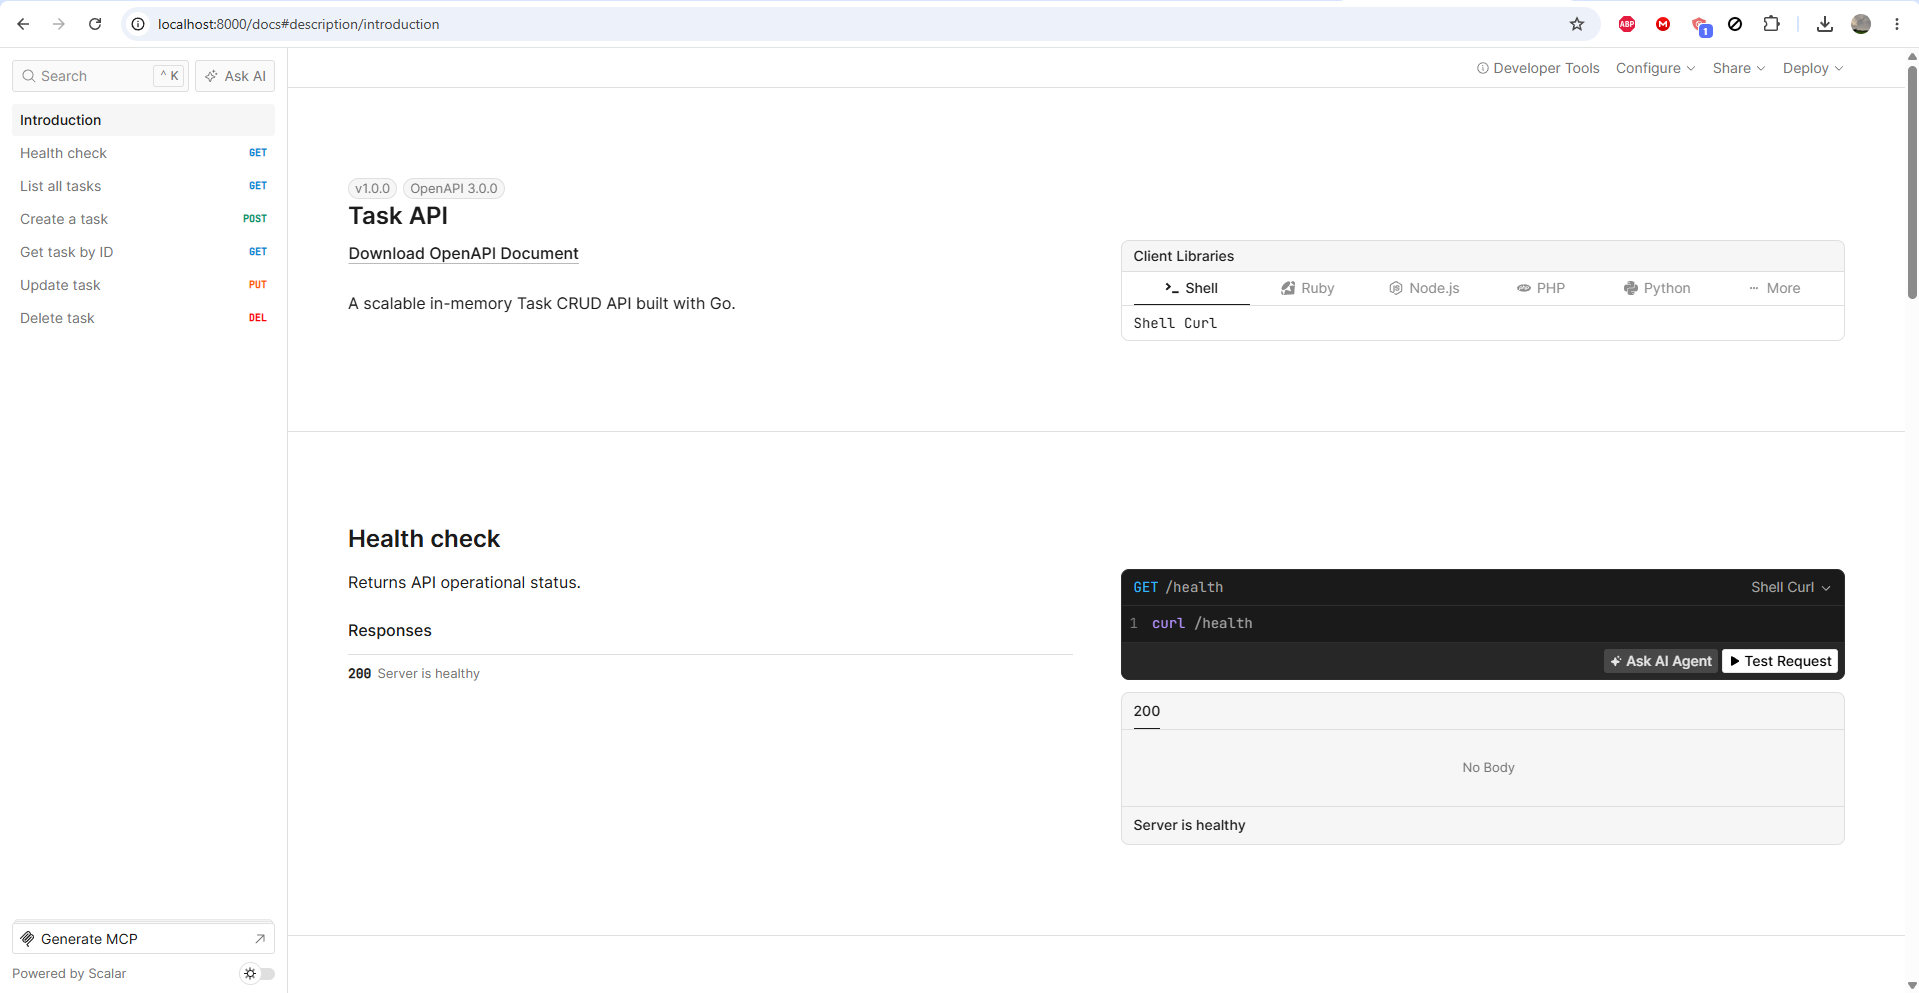
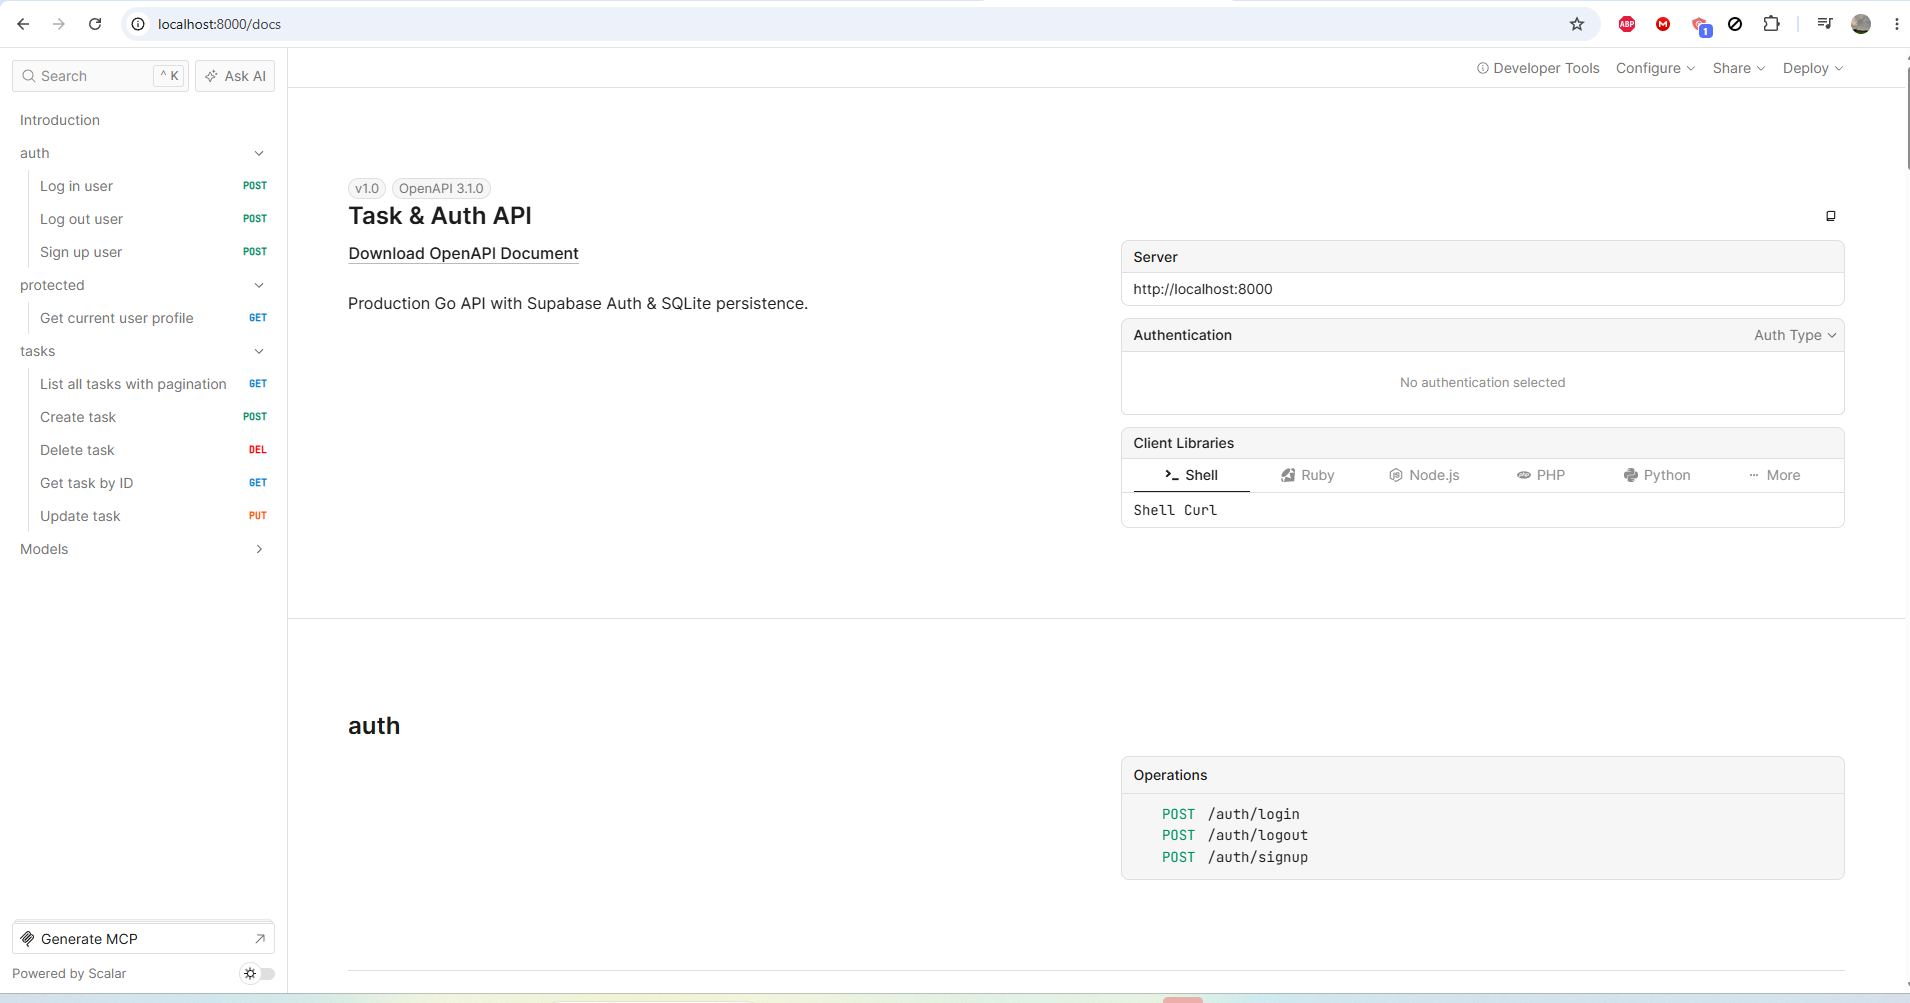
updated readme

diff --git a/cmd/server/main.go b/cmd/server/main.go
@@ -8,17 +8,23 @@ import (
 	"github.com/joho/godotenv"
 	supabase "github.com/nedpals/supabase-go"
 
+	// Anonymous import registers generated Swagger docs side-effects for OpenAPI tools
 	_ "task-api/docs"
+
+	// Feature modules (Vertical Slices)
 	"task-api/internal/features/auth"
 	featureDocs "task-api/internal/features/docs"
 	"task-api/internal/features/health"
 	"task-api/internal/features/system"
 	"task-api/internal/features/tasks"
 	"task-api/internal/features/users"
+
+	// Platform infrastructure & middleware
 	"task-api/internal/platform/middleware"
 	"task-api/internal/platform/router"
 )
 
+// Global OpenAPI / Swagger Annotations used by 'swag init'
 // @title Task & Auth API
 // @version 1.0
 // @description Production Go API with Supabase Auth & SQLite persistence.
@@ -28,54 +34,85 @@ import (
 // @name Authorization
 // @description Type "Bearer " followed by your Supabase access_token
 func main() {
+
+	// -------------------------------------------------------------------------
+	// 1. BOOTSTRAP ENVIRONMENT & STRUCTURED LOGGING
+	// -------------------------------------------------------------------------
+	// Load environment variables from .env into os.Getenv (silently ignores if .env is missing, e.g., in Docker)
 	_ = godotenv.Load()
 
+	// Set up global structured JSON logging to Stdout using Go's standard slog package
 	logger := slog.New(slog.NewJSONHandler(os.Stdout, nil))
 	slog.SetDefault(logger)
 
+	// -------------------------------------------------------------------------
+	// 2. INFRASTRUCTURE & EXTERNAL CLIENT INITIALIZATION
+	// -------------------------------------------------------------------------
+	// Read Supabase credentials for client creation
 	sbURL := os.Getenv("SUPABASE_URL")
 	sbPublishableKey := os.Getenv("SUPABASE_PUBLISHABLE_KEY")
 
+	// Instantiate global Supabase SDK client for authentication features
 	sbClient := supabase.CreateClient(sbURL, sbPublishableKey)
 
-	// Direct initialization — no error check needed because public keys
-	// are fetched and cached cleanly on the first authenticated request.
+	// Instantiate Auth Middleware (lazy-loads & caches Supabase JWKS public keys on demand)
 	authMw := middleware.NewAuthMiddleware(sbURL)
 
+	// Instantiate HTTP Router Mux (Go 1.22+ standard HTTP router)
 	mux := http.NewServeMux()
 
+	// Read database path with fallback to default "tasks.db"
 	dbPath := os.Getenv("DB_PATH")
 	if dbPath == "" {
 		dbPath = "tasks.db"
 	}
+
+	// Initialize SQLite database connection pool and store for tasks
 	taskStore, err := tasks.NewSQLiteStore(dbPath)
 	if err != nil {
 		slog.Error("Failed to initialize database", "error", err)
 		os.Exit(1)
 	}
 
+	// -------------------------------------------------------------------------
+	// 3. FEATURE MODULE REGISTRATION & LIFECYCLE MANAGEMENT
+	// -------------------------------------------------------------------------
+	// Declare slice of feature modules implementing the router.Module interface
 	modules := []router.Module{
-		system.NewModule(),
-		health.NewModule(),
-		featureDocs.NewModule(),
-		auth.NewModule(sbClient, authMw, sbURL, sbPublishableKey),
-		users.NewModule(authMw),
-		tasks.NewModule(taskStore),
+		system.NewModule(),      // Base info / root endpoints
+		health.NewModule(),      // Healthcheck endpoint
+		featureDocs.NewModule(), // Scalar UI & openapi.json serving
+		auth.NewModule(sbClient, authMw, sbURL, sbPublishableKey), // Auth slice (login, signup, logout)
+		users.NewModule(authMw),                                   // Protected profile slice
+		tasks.NewModule(taskStore),                                // CRUD task slice
 	}
+
+	// Iterate through the modules slice and attach all routes to 'mux'
 	router.RegisterModules(mux, modules...)
+
+	// Gracefully close resources held by feature modules (e.g., DB pools) when main exits
 	defer func() {
 		if err := router.CloseModules(modules...); err != nil {
 			slog.Error("Failed to close feature modules", "error", err)
 		}
 	}()
 
+	// -------------------------------------------------------------------------
+	// 4. GLOBAL MIDDLEWARE PIPELINE
+	// -------------------------------------------------------------------------
+	// Wrap top-level router with global request logging middleware
 	handler := middleware.Logging(mux)
 
+	// -------------------------------------------------------------------------
+	// 5. HTTP SERVER STARTUP
+	// -------------------------------------------------------------------------
+	// Determine port configuration with fallback to 8000
 	port := os.Getenv("PORT")
 	if port == "" {
 		port = "8000"
 	}
 
+	// Boot HTTP server listener
 	slog.Info("Server listening", "port", port)
 	if err := http.ListenAndServe(":"+port, handler); err != nil {
 		slog.Error("Server failed to start", "error", err)

diff --git a/README.md b/README.md
@@ -1,30 +1,34 @@
 # Task API
 
-A high-performance REST API for managing a to-do list. The service is built with Go 1.22+ and the standard library's `net/http` package, uses SQLite for persistence, and is organized using Vertical Slice Architecture.
+Task API is a Go REST API for managing tasks and authenticating users with Supabase. It uses Go's standard `net/http` server, SQLite for task persistence, structured JSON logging, and vertical feature modules for route registration and resource lifecycle management.
 
-## Features and Architecture
-
-- **Zero framework overhead:** Uses Go's standard library and enhanced Go 1.22 path routing.
-- **Vertical Slice Architecture:** The `tasks`, `health`, and `docs` features are isolated into self-contained modules.
-- **SQLite persistence:** Stores tasks in the local `tasks.db` database.
-- **Structured logging:** Request metadata is emitted as JSON using `log/slog`.
-- **Interactive API reference:** Scalar serves the OpenAPI documentation at `/docs`.
-
-## Getting Started
+## Setup
 
 ### Prerequisites
 
-- Go 1.22 or later
+- Go 1.26.6 or later
+- A Supabase project with its project URL and publishable key
 
-### Run the server
+Create a `.env` file in the repository root. The server loads it automatically at startup:
 
-From the repository root:
+```dotenv
+SUPABASE_URL=https://your-project.supabase.co
+SUPABASE_PUBLISHABLE_KEY=your-publishable-key
+DB_PATH=tasks.db
+PORT=8000
+```
+
+`SUPABASE_URL` and `SUPABASE_PUBLISHABLE_KEY` are used by Supabase authentication and token validation. `DB_PATH` and `PORT` are optional; they default to `tasks.db` and `8000`.
+
+### Run
+
+From the repository root, run:
 
 ```bash
 go run ./cmd/server
 ```
 
-The API listens on `http://localhost:8000`.
+The API listens on `http://localhost:8000` unless `PORT` is changed.
 
 ## Why SQLite?
 
@@ -44,18 +48,19 @@ ORDER BY id ASC;
 
 ![SQLite DB Browser showing the tasks table](docs/SqlLite.png)
 
-## API Endpoints
+## API Reference
 
-| Method | Path | Description | Responses |
+These five endpoints cover the main health, authentication, profile, and task-list flows. Authenticated requests must send `Authorization: Bearer <supabase-access-token>`.
+
+| Method | Endpoint | Description | Auth required |
 | --- | --- | --- | --- |
-| `GET` | `/` | API metadata and endpoint index | `200 OK` |
-| `GET` | `/health` | Server health check | `200 OK` |
-| `GET` | `/docs` | Scalar interactive API documentation | `200 OK` |
-| `GET` | `/tasks` | List all tasks | `200 OK` |
-| `GET` | `/tasks/{id}` | Get a task by ID | `200 OK`, `400 Bad Request`, `404 Not Found` |
-| `POST` | `/tasks` | Create a task | `201 Created`, `400 Bad Request` |
-| `PUT` | `/tasks/{id}` | Update a task title and/or completion state | `200 OK`, `400 Bad Request`, `404 Not Found` |
-| `DELETE` | `/tasks/{id}` | Delete a task | `204 No Content`, `400 Bad Request`, `404 Not Found` |
+| `GET` | `/health` | Check whether the API is running | No |
+| `POST` | `/auth/signup` | Create a Supabase user account | No |
+| `POST` | `/auth/login` | Sign in and receive access and refresh tokens | No |
+| `GET` | `/protected/profile` | Get the current authenticated user's profile | Yes |
+| `GET` | `/tasks` | List stored tasks with pagination | No |
+
+The API also exposes task CRUD operations at `GET /tasks/{id}`, `POST /tasks`, `PUT /tasks/{id}`, and `DELETE /tasks/{id}`, plus `POST /auth/logout`, `GET /`, `GET /public/info`, and the interactive documentation at `/docs`.
 
 ## Sample Request
 
@@ -85,7 +90,7 @@ Invoke-RestMethod -Uri "http://localhost:8000/tasks/4" -Method Put -Body $update
 
 ## API Documentation
 
-With the server running, open [Scalar API documentation](http://localhost:8000/docs) for an interactive reference and request tester. The source OpenAPI 3.0 specification is available in [openapi.json](openapi.json).
+With the server running, open [Scalar API documentation](http://localhost:8000/docs) for an interactive reference and request tester. The source OpenAPI 3.0 specification is available in [swagger.json](docs/swagger.json).
 
 ### Scalar UI Screenshot
 
